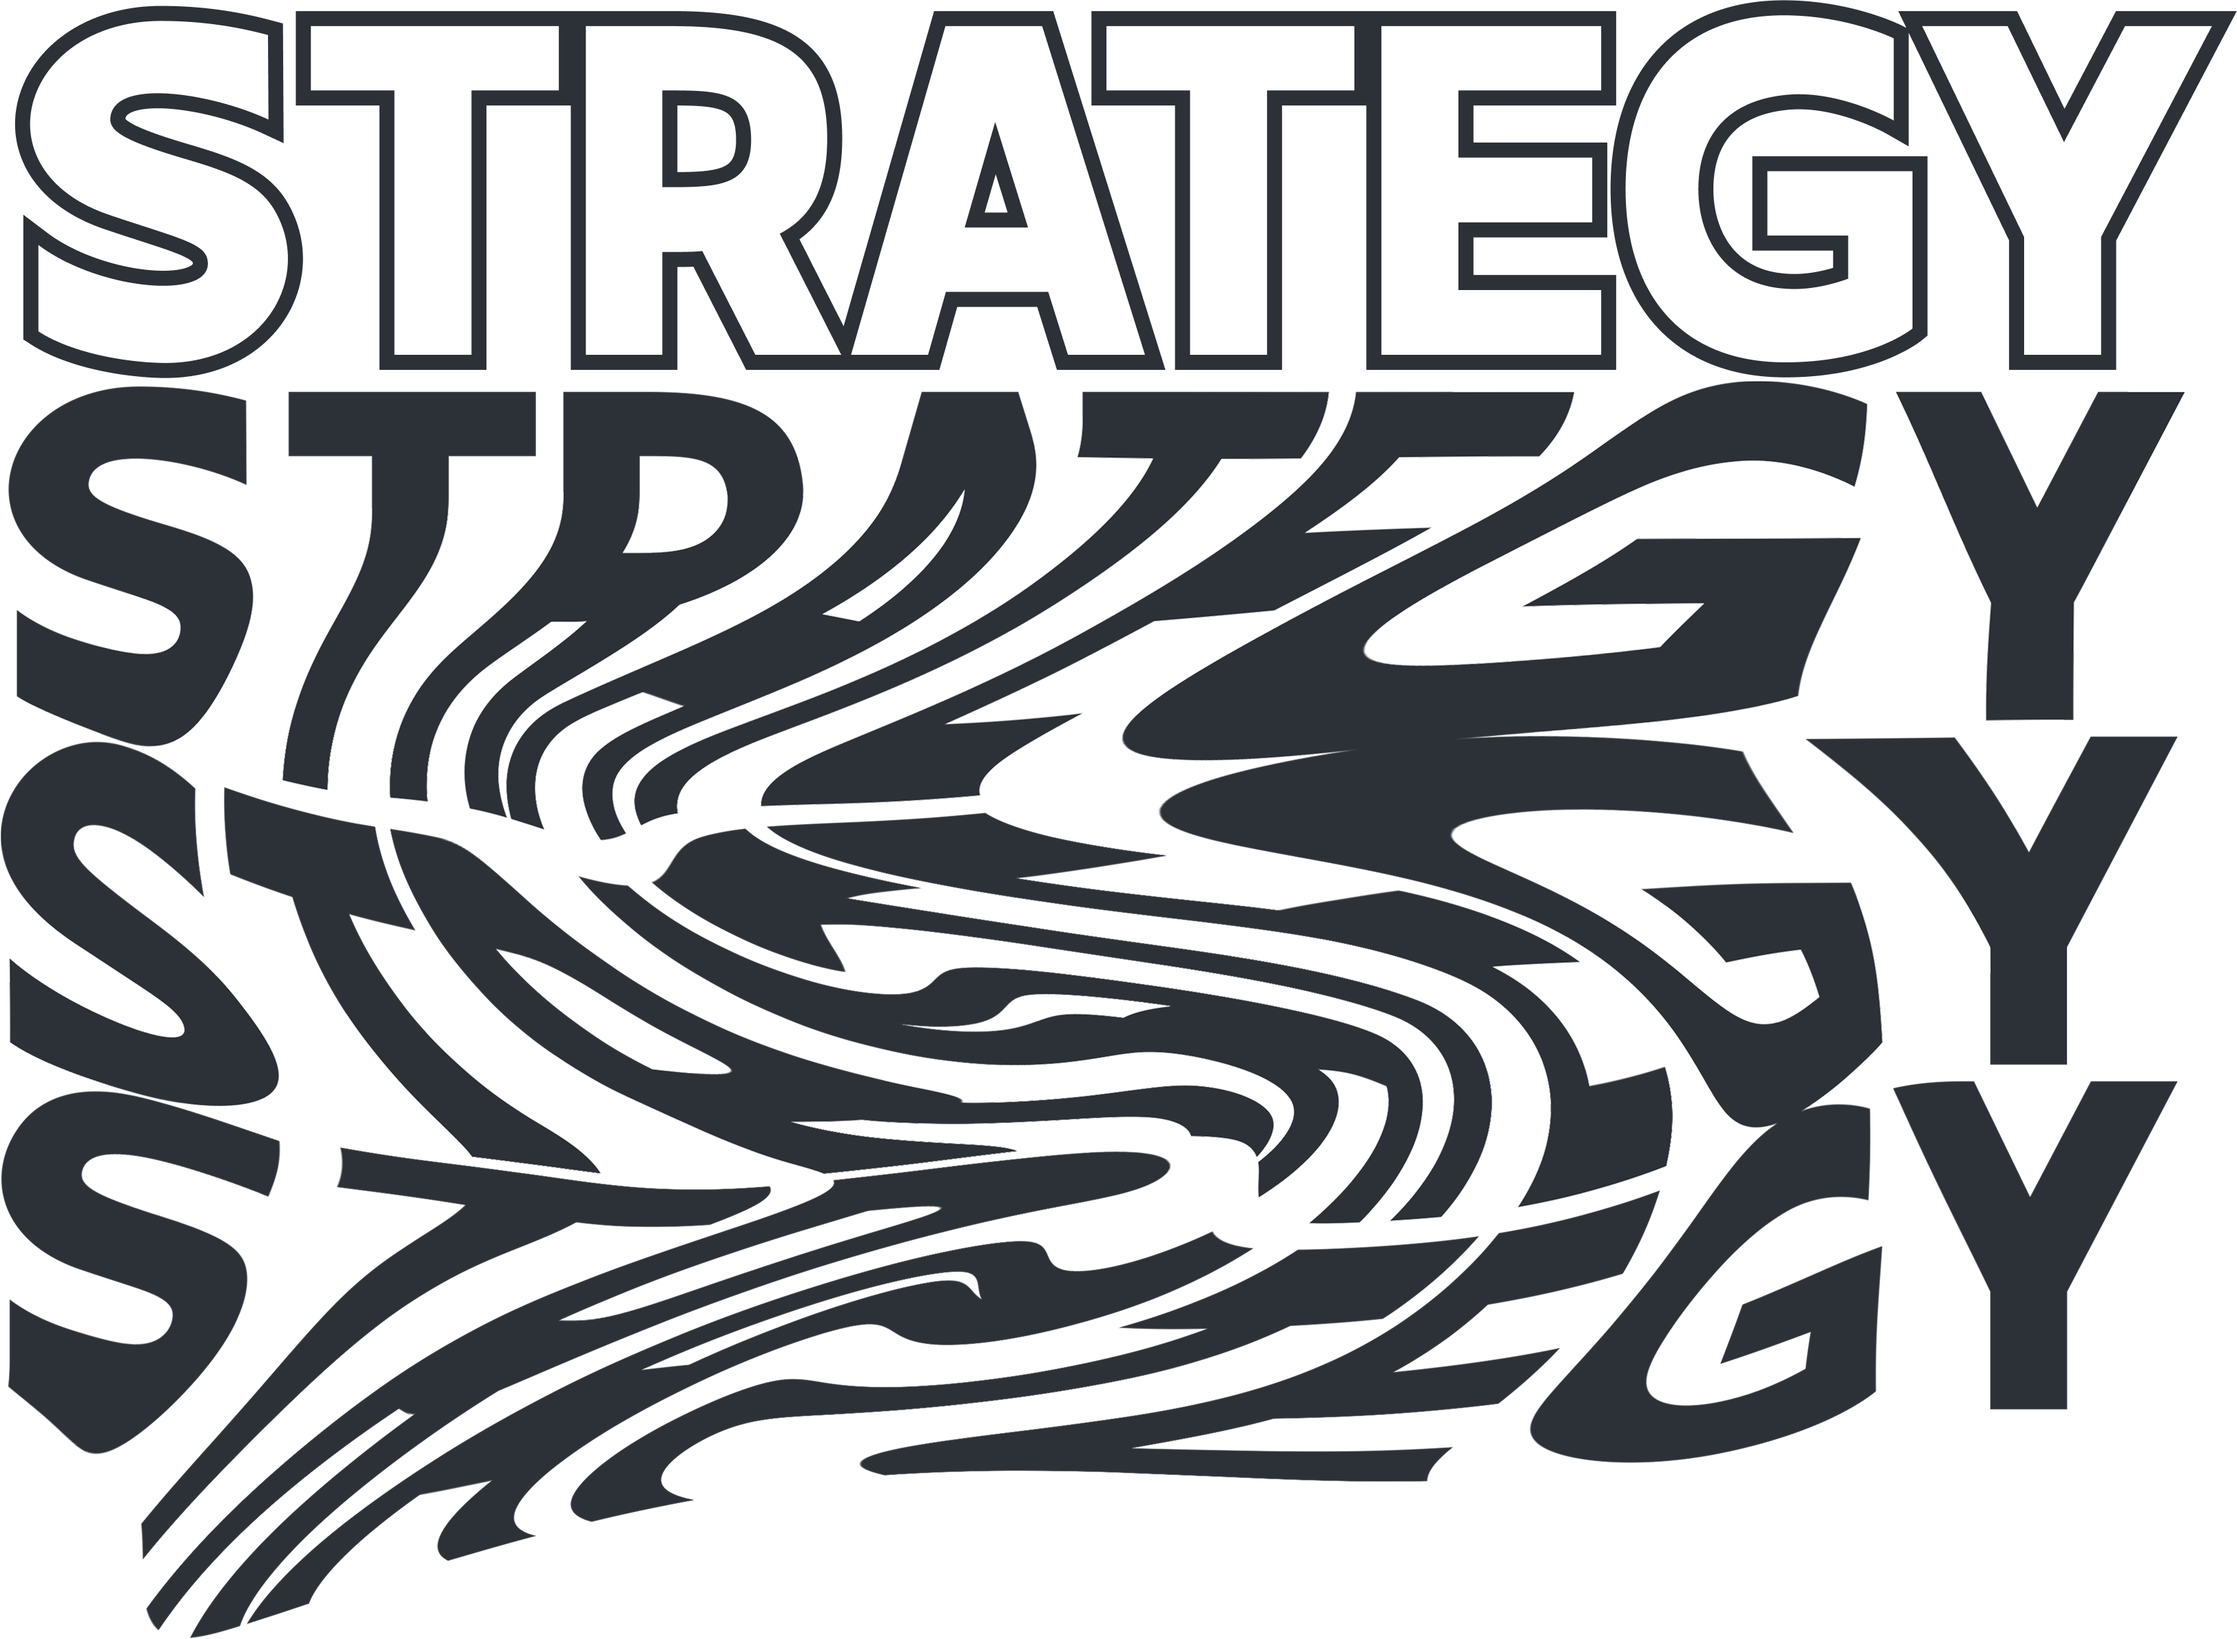
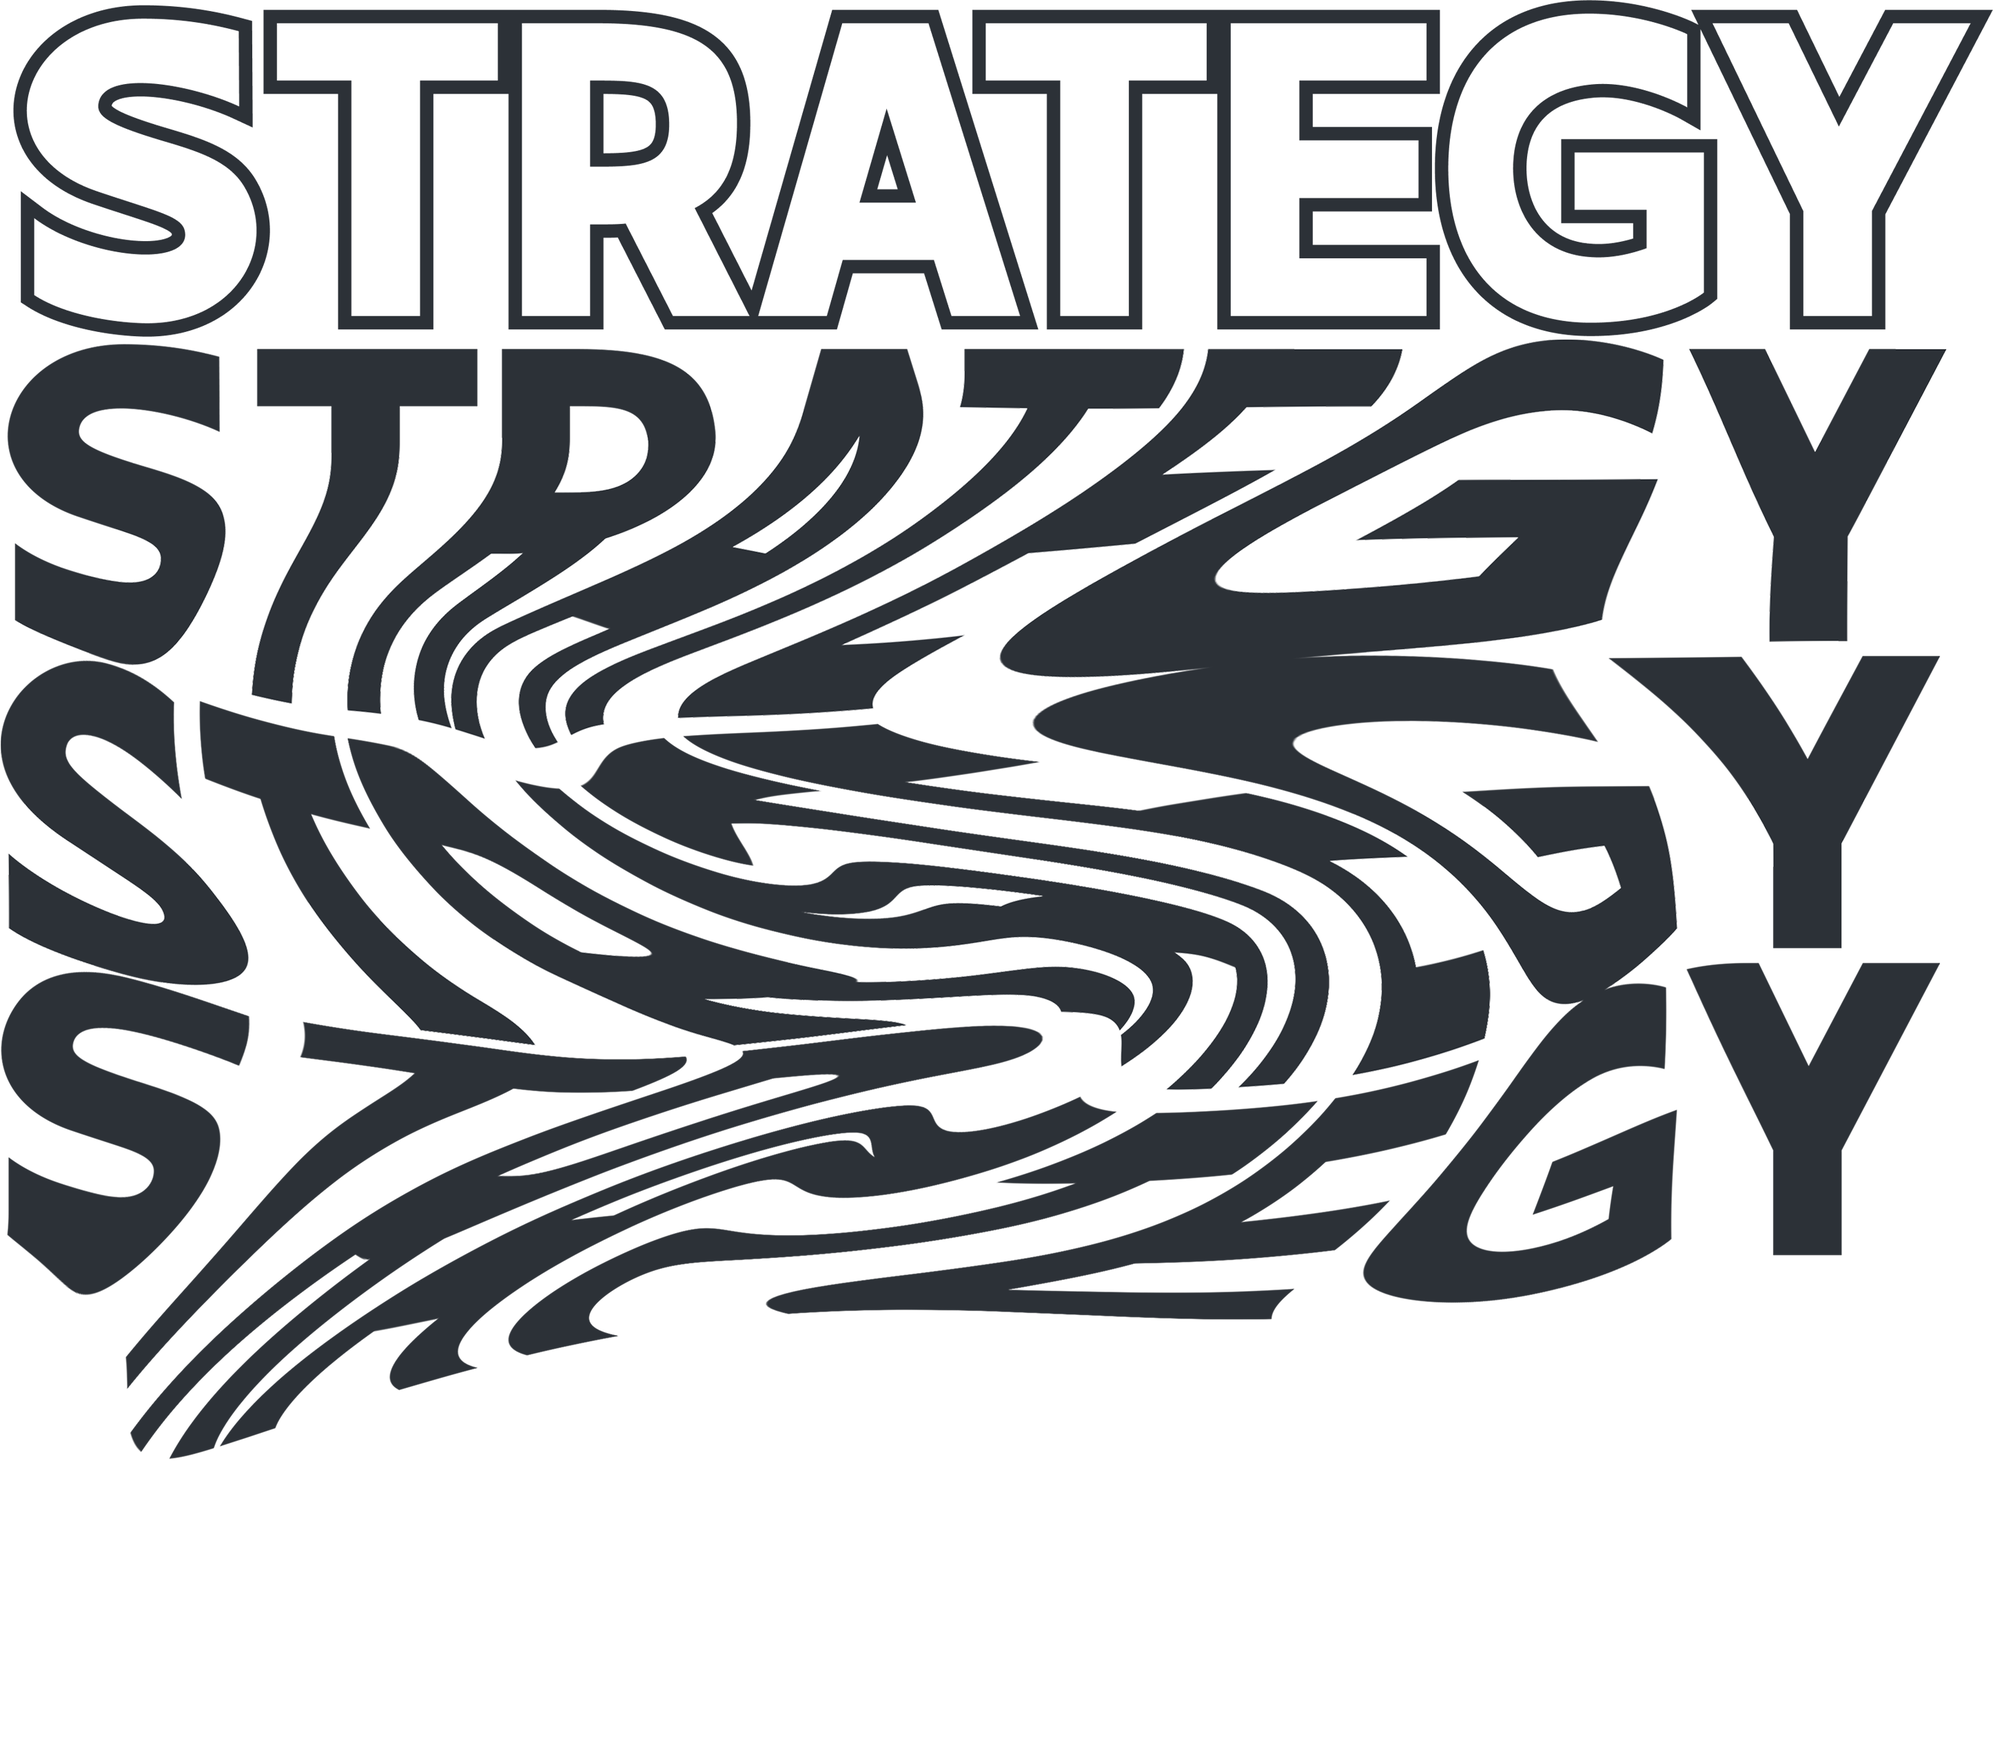
Fixed education

diff --git a/src/pages/about/section.module.scss b/src/pages/about/section.module.scss
@@ -1541,6 +1541,7 @@
     display: flex;
     flex-direction: column;
     align-items: center;
+    padding-top: 5px;
 
     > .communication {
         position: relative;
@@ -1605,15 +1606,25 @@
     }
 
     > .credTree {
-        $height-esdip: 180px;
-        $height-esco: 220px;
-        $height-colon: 180px;
-        $height-trazos: 360px;
-        $height-valley: 320px;
-        $height-euroinnova: 280px;
-        $height-domestika: 620px;
-        $height-nuclio: 320px;
-        $height-35mm: 240px;
+        $height-esdip: var(--height-esdip);
+        $height-esco: var(--height-esco);
+        $height-colon: var(--height-colon);
+        $height-trazos: var(--height-trazos);
+        $height-valley: var(--height-valley);
+        $height-euroinnova: var(--height-euroinnova);
+        $height-domestika: var(--height-domestika);
+        $height-nuclio: var(--height-nuclio);
+        $height-35mm: var(--height-35mm);
+
+        --height-esdip: 120px;
+        --height-esco: 140px;
+        --height-colon: 100px;
+        --height-trazos: 240px;
+        --height-valley: 110px;
+        --height-euroinnova: 140px;
+        --height-domestika: 660px;
+        --height-nuclio: 120px;
+        --height-35mm: 120px;
 
         margin-top: -1px;
         width: 100%;
@@ -1631,13 +1642,13 @@
                 flex: 1;
                 display: flex;
                 flex-direction: column;
-                gap: 3rem;
+                gap: 1rem;
                 margin-bottom: 80px;
 
                 > .visuals {
                     width: 100%;
-                    height: 500px;
-                    padding: 1rem;
+                    aspect-ratio: 552 / 493;
+                    padding-top: 1rem;
 
                     > img {
                         width: 100%;
@@ -1673,7 +1684,7 @@
 
                     > .content {
                         > img {
-                            margin-right: 5rem;
+                            margin-right: 12%;
                             width: 50%;
                         }
                     }
@@ -1706,6 +1717,7 @@
 
             > .treeRoot {
                 width: 32px;
+                flex-shrink: 0;
                 background-color: var(--color-primary);
             }
 
@@ -1713,12 +1725,12 @@
                 flex: 1;
                 display: flex;
                 flex-direction: column;
-                gap: 3rem;
+                gap: 1rem;
 
                 > .strategy {
                     width: 100%;
-                    height: 500px;
-                    padding: 1rem;
+                    aspect-ratio: 552 / 493;
+                    padding-top: 1rem;
 
                     > img {
                         width: 100%;
@@ -1836,19 +1848,19 @@
         overflow: hidden;
 
         &.desc {
-            line-height: 1lh;
+            line-height: 0.65lh;
             display: flex;
             flex-direction: column;
-            gap: 0.75rem;
 
             .date {
                 font-family: var(--font-invisible);
-                font-size: 2em;
+                font-size: 1.25em;
+                padding-top: 1em;
             }
 
             .body {
                 font-family: var(--font-fragment-mono);
-                font-size: 1.25em;
+                font-size: 0.9em;
             }
         }
     }
@@ -1936,8 +1948,60 @@
     .sectionContent.education {
         width: 100%;
 
-        > .ganesha {
-            margin-top: unset;
+        > .content {
+            > .ganesha {
+                margin-top: unset;
+            }
+
+            > .credTree {
+                --height-esdip: 180px;
+                --height-esco: 220px;
+                --height-colon: 180px;
+                --height-trazos: 360px;
+                --height-valley: 320px;
+                --height-euroinnova: 280px;
+                --height-domestika: 620px;
+                --height-nuclio: 320px;
+                --height-35mm: 240px;
+
+                > .credSection {
+                    > .left {
+                        gap: 3rem;
+
+                        > .visuals {
+                            padding: 1rem;
+                        }
+                    }
+
+                    > .right {
+                        gap: 3rem;
+
+                        > .strategy {
+                            padding: 1rem;
+                        }
+                    }
+                }
+            }
+        }
+    }
+
+    .branch {
+        > .content {
+            &.desc {
+                line-height: 1lh;
+                gap: 0.75rem;
+
+                .date {
+                    font-family: var(--font-invisible);
+                    font-size: 2em;
+                    padding-top: 0;
+                }
+
+                .body {
+                    font-family: var(--font-fragment-mono);
+                    font-size: 1.25em;
+                }
+            }
         }
     }
 }

diff --git a/src/components/PhoneHeader.tsx b/src/components/PhoneHeader.tsx
@@ -129,18 +129,27 @@ function PhoneHeader (props: PhoneHeaderProps) {
                         <SiteImage image={IMG.navigator.cv} />
                         <div className={styles.label}>CV</div>
                     </div>
-                    <div className={styles.entry}>
+                    <a
+                        className={styles.entry}
+                        href="/portfolio"
+                    >
                         <SiteImage image={IMG.navigator.portfolio} />
                         <div className={styles.label}>Portfolio</div>
-                    </div>
-                    <div className={styles.entry}>
+                    </a>
+                    <a
+                        className={styles.entry}
+                        href="/about"
+                    >
                         <SiteImage image={IMG.navigator.me} />
                         <div className={styles.label}>About me</div>
-                    </div>
-                    <div className={styles.entry}>
+                    </a>
+                    <a
+                        className={styles.entry}
+                        href="/home"
+                    >
                         <SiteImage image={IMG.navigator.blog} />
                         <div className={styles.label}>Blog</div>
-                    </div>
+                    </a>
                 </div>
             </div>
         </Modal>
